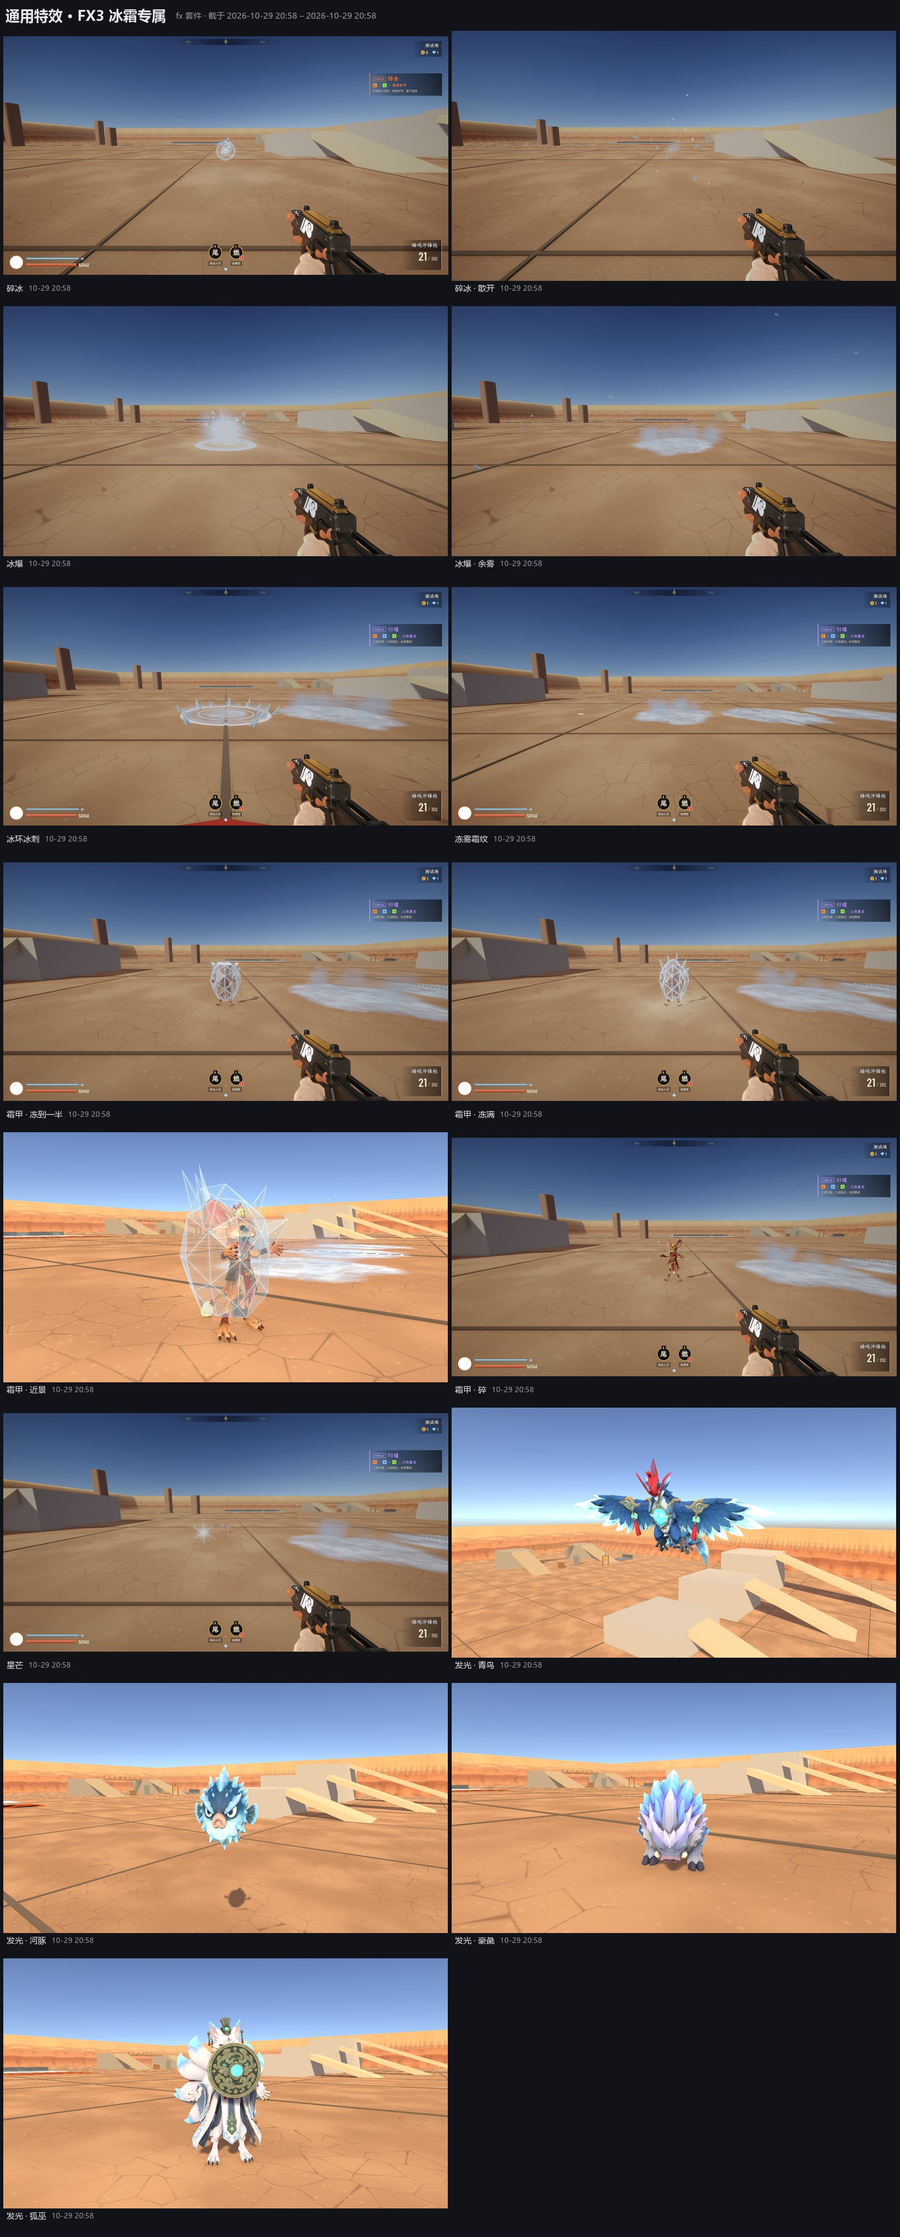
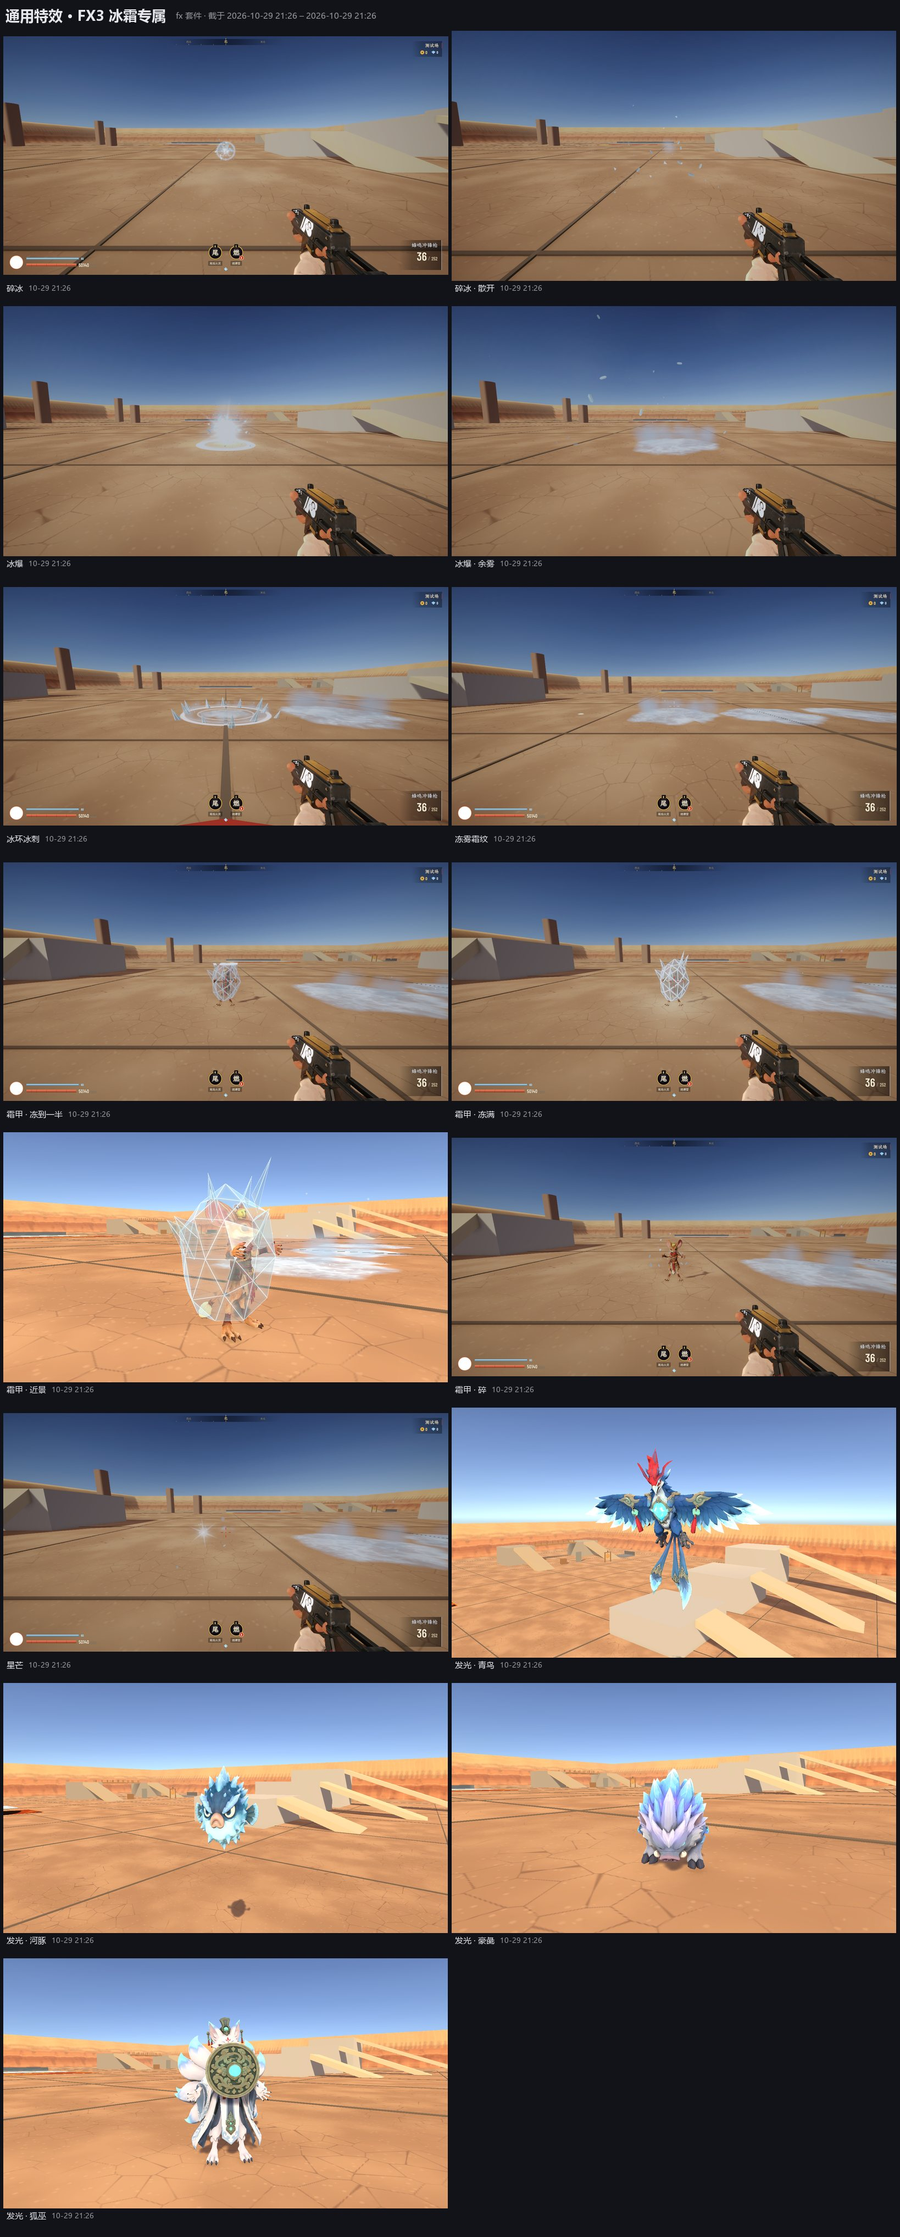
docs(unity): 战斗审阅图集按风格准则收口审查 —— 鲲鹏拼图按冰爆修复重拍；问题清单补 4 条（#13 鲲鹏化形赭黄火团已修；#14 FX3 冰爆白粉雾、#15 冰壳偏浅白、#16 鲲鹏倒下余韵整幅浅白，未修，已登记改法）；fx-frost / fx-inferno 用回归里的最新截图重拼

diff --git a/docs/art/review/unity-combat/index.html b/docs/art/review/unity-combat/index.html
@@ -16,7 +16,7 @@ figcaption b{color:var(--fg)}figcaption .lack{color:#f5a524}
 #lb img{display:block;margin:0 auto;max-width:none;width:min(1660px,100%)}#lb .bar{position:fixed;left:0;right:0;bottom:0;padding:8px 16px;
 background:#000c;color:var(--fg);font-size:14px}
 </style></head><body>
-<header><h1>Unity 战斗演出审阅图集</h1><div class='dim'>生成于 2026-10-29 21:03 · 每只怪 / 每个首领一张拼图：一行一个招式，四格依次是<b style='color:#f0b43c'>前摇</b>（预警最满的那一帧）、<b style='color:#f57832'>出手</b>、<b style='color:#eb4646'>命中</b>（没打中则为收招）、<b style='color:#5aa0f5'>第一人称</b>（前摇最后一帧的玩家视角）。第三人称旁观机位里的<b style='color:#5af2ff'>青色胶囊</b>是玩家站位。点图放大，← → 翻页，Esc 关闭。</div></header>
+<header><h1>Unity 战斗演出审阅图集</h1><div class='dim'>生成于 2026-10-29 22:17 · 每只怪 / 每个首领一张拼图：一行一个招式，四格依次是<b style='color:#f0b43c'>前摇</b>（预警最满的那一帧）、<b style='color:#f57832'>出手</b>、<b style='color:#eb4646'>命中</b>（没打中则为收招）、<b style='color:#5aa0f5'>第一人称</b>（前摇最后一帧的玩家视角）。第三人称旁观机位里的<b style='color:#5af2ff'>青色胶囊</b>是玩家站位。点图放大，← → 翻页，Esc 关闭。</div></header>
 <nav><a href='#fx-polish'>特效打磨</a><a href='#issues'>问题清单</a><a href='#intro'>首领登场演出</a><a href='#hanba'>首领招式 · 旱魃（1-4）</a><a href='#kunpeng'>首领招式 · 鲲鹏（2-4）</a><a href='#warlord'>首领招式 · 熔心魔将（3-3）</a><a href='#qilin'>首领招式 · 火麒麟（3-4）</a><a href='#desert'>普通怪物 · 第一章 · 沙海</a><a href='#frost'>普通怪物 · 第二章 · 冰原</a><a href='#inferno'>普通怪物 · 第三章 · 火狱</a><a href='#fx'>通用战斗特效</a></nav><main>
 <h2 id='fx-polish'>特效打磨（2026-10-29）</h2><p>四路特效打磨（A 射击核心、B 爆炸 / 元素 / 状态 / 护盾、C 首领与怪物专属 + 预警、D 环境氛围）和一轮风格审查都已完成，本图集是打磨之后用合并后的代码重拍的。特效按 fx-style.md 的准则做：形状先于细节、每个特效 2–3 个色阶、中尺度东方纹样、克制的光、第一人称读感优先；烟尘按章节换暖沙 / 冷白 / 紫褐。各路改前 / 改后对比：</p><p>准则：<a href='../../fx-style.md'>docs/art/fx-style.md</a> · 审查报告：<a href='../fx-polish/style-audit.md'>fx-polish/style-audit.md</a></p><table><tr><th>路</th><th>内容</th><th>改前 / 改后对比图</th></tr>
 <tr><td>A 射击核心</td><td class='dim'>枪口火焰、抛壳、曳光、弹孔 / 焦痕、命中层、暴击、碎刃刀光</td><td><a href='../fx-polish/A/blade.jpg'>blade</a> · <a href='../fx-polish/A/crit.jpg'>crit</a> · <a href='../fx-polish/A/hits.jpg'>hits</a> · <a href='../fx-polish/A/holes.jpg'>holes</a> · <a href='../fx-polish/A/muzzle-3p-1.jpg'>muzzle-3p-1</a> · <a href='../fx-polish/A/muzzle-3p-2.jpg'>muzzle-3p-2</a> · <a href='../fx-polish/A/muzzle-all-after.jpg'>muzzle-all-after</a> · <a href='../fx-polish/A/muzzle-fp-1.jpg'>muzzle-fp-1</a> · <a href='../fx-polish/A/muzzle-fp-2.jpg'>muzzle-fp-2</a> · <a href='../fx-polish/A/scorch.jpg'>scorch</a> · <a href='../fx-polish/A/shells.jpg'>shells</a> · <a href='../fx-polish/A/tracer.jpg'>tracer</a></td></tr>
@@ -28,13 +28,13 @@ background:#000c;color:var(--fg);font-size:14px}
 <h2 id='summary'>截图概况</h2><table><tr><th>分组</th><th>拼图</th><th>截图</th><th>截图时间</th></tr>
 <tr><td>首领登场</td><td>4</td><td>32</td><td>2026-10-29 21:00 / 2026-10-29 21:02</td></tr>
 <tr><td>首领 · 旱魃（1-4）</td><td>4</td><td>80</td><td>2026-10-29 20:15</td></tr>
-<tr><td>首领 · 鲲鹏（2-4）</td><td>1</td><td>39</td><td>2026-10-29 20:19</td></tr>
+<tr><td>首领 · 鲲鹏（2-4）</td><td>1</td><td>39</td><td>2026-10-29 22:11</td></tr>
 <tr><td>首领 · 熔心魔将（3-3）</td><td>1</td><td>59</td><td>2026-10-29 20:25</td></tr>
 <tr><td>首领 · 火麒麟（3-4）</td><td>3</td><td>59</td><td>2026-10-29 20:27</td></tr>
 <tr><td>第一章 · 沙海</td><td>7</td><td>100</td><td>2026-10-29 20:41</td></tr>
 <tr><td>第二章 · 冰原</td><td>11</td><td>178</td><td>2026-10-29 20:44</td></tr>
 <tr><td>第三章 · 火狱</td><td>11</td><td>168</td><td>2026-10-29 20:49</td></tr>
-<tr><td>通用特效</td><td>9</td><td>72</td><td>2026-10-29 20:58 / 2026-10-29 20:59</td></tr>
+<tr><td>通用特效</td><td>9</td><td>72</td><td>2026-10-29 20:58 / 2026-10-29 21:26</td></tr>
 </table>
 <h2 id='notes'>截图说明</h2><ul class='dim'><li>三章普通怪都在测试场（TestArena）截：沙地、红色刷怪台、悬浮的武器架是测试场的东西，不是本章地形（红色圆台不是预警，别和红 / 橙色预警混看）；首领在各自的真实关卡里截。</li><li>普通和精英同时刷在刷怪台上，冰鲸、玄冰巨蟹这类大体型的两只会互相穿插——是测试摆位，不是游戏问题。</li><li>第三章模型暂缓，3-3 / 3-4 场地里的方块和浅色板是白盒占位；场地柱子密，个别旁观机位被柱子挡住。</li><li>「命中」= 出手后玩家第一次挨的一下（4 点以上，跳伤不算）；几只怪同时出手时可能记到别的怪头上。没打中就拍收招；辅助招（施法、换位、护甲）第三格是出手后 0.7 s 的「效果」。</li><li>「第一人称」格：眼睛位置不动、视线临时转向出招者（拍完还原），看的是玩家正看着它时预警读不读得出来。</li><li>本轮（2026-10-29）在特效打磨四路 + 风格审查收口之后、用合并 ff7ad722 后的代码全部重拍：七组 gallery、boss-intro（测试场 + 四个首领关）、fx；各图标题里有截图时间。</li></ul>
 <h2 id='issues'>问题清单</h2><p class='dim'>截图时发现的明显问题。严重程度：高 = 影响读招 / 明显穿帮；中 = 看得出不对；低 = 打磨项。「状态」写的是修复进度和修法（已修的条目对应的拼图已重拍）。</p>
@@ -51,6 +51,10 @@ background:#000c;color:var(--fg);font-size:14px}
 <tr><td>10</td><td><span class='sev' style='background:#8b8d98'>低</span></td><td>特效</td><td>跳鼠刀兵 / 沙魇（第一章）</td><td>交叉斩 / 交叉爪击的刀光很淡很细，出手帧在沙地上几乎看不到 X 字刀光，近战出手缺少一下明确的视觉重音。</td><td style='color:#46a758'>已修：敌方刀光加宽 1.5 倍、垫暗月牙、刃口保持暖色、多留 25%（SlashArc hostile，跳鼠 / 沙魇 / 狌狌 / 魔将）；desert 回归通过、已重拍</td><td><a href='#desert-jerboa_blade'>desert-jerboa_blade</a> <a href='#desert-sand_wraith'>desert-sand_wraith</a></td></tr>
 <tr><td>11</td><td><span class='sev' style='background:#8b8d98'>低</span></td><td>特效</td><td>状态外观（通用）</td><td>五种状态主要靠整体染色区分（橙 / 紫 / 绿 / 黄 / 蓝），感电和减速在近景里几乎没有粒子（电弧、冰晶）；第一人称 15 m 外只能靠颜色分辨，减速和感电的蓝紫色容易混。</td><td style='color:#46a758'>已修：减速改冰白 + 冰晶星芒 + 细雪，和雷元素天蓝拉开；感电频闪拉开明暗、电弧更多更亮（StatusFx）；fx 回归通过、已重拍</td><td><a href='#fx-status'>fx-status</a></td></tr>
 <tr><td>12</td><td><span class='sev' style='background:#8b8d98'>低</span></td><td>演出</td><td>鲲鹏（2-4）</td><td>倒下演出偏短：被击杀后 1.5 s 鹏还在下坠，3.5 s 时场上已经什么都不剩（没有残骸 / 落羽 / 冰面余波），和旱魃、魔将、火麒麟的倒下演出相比收得太快。</td><td style='color:#46a758'>已修：倒下演出 3.2 → 4.4 s，鹏 55% 砸冰面（碎冰 + 冰环 + 震屏）后趴着抽两下、鲲没顶涌冰浪，炸开后落点留 6 s 冻雾 + 霜斑（KunPengBrain）；boss-kunpeng 回归通过、已重拍</td><td><a href='#kunpeng-boss_kunpeng'>kunpeng-boss_kunpeng</a></td></tr>
+<tr><td>13</td><td><span class='sev' style='background:#f5a524'>中</span></td><td>特效风格</td><td>鲲鹏（2-4）化形 / 冰属性爆发</td><td>收口审查（fx-style ③ 元素色）：鲲 → 鹏化形那一下是一大团赭黄泥色的卡通火团。原因是 B 路的卡通爆炸只有火的色阶，传冰蓝进去，火团就混成了泥色。鲲 · 吐冰的冰块落地、MatriarchNova 也是同样的调用。</td><td style='color:#46a758'>已修：这三处改走 FX3 冷的冰爆 Fx.FrostNova（KunPengBrain / BossHazards 的 LobKind.Ice / MatriarchMoves），其余爆炸不变。boss-kunpeng、gallery-kunpeng 回归通过，已重拍（72f14d4e）</td><td><a href='#kunpeng-boss_kunpeng'>kunpeng-boss_kunpeng</a></td></tr>
+<tr><td>14</td><td><span class='sev' style='background:#8b8d98'>低</span></td><td>特效风格</td><td>FX3 冰爆 / 冰河豚自爆（第二章）</td><td>收口审查（fx-style ②④）：FX3 冰爆是一团柔边的白粉雾，再加白色冷环，冰河豚鼓气自爆、fx 套件的「冰爆」都是这样。亮沙上看是一大片白，读不出准则里「块面清楚的冰晶多面体」那种大形。FX3 写在风格准则之前，A / B / C / D 四路和风格审查都没有覆盖它。</td><td style='color:#8b8d98'>未修：属于 FX3 整套的风格整改，不在收口范围内，这里只登记。改法建议：白雾换成冰蓝两段的卡通团块，冷环加粗，主形改成几块大冰晶</td><td><a href='#frost-ice_puffer'>frost-ice_puffer</a> <a href='#fx-frost'>fx-frost</a></td></tr>
+<tr><td>15</td><td><span class='sev' style='background:#8b8d98'>低</span></td><td>特效风格</td><td>状态 · 减速（冰壳，通用）</td><td>收口审查（fx-style ②⑦）：在没有加密的机器上补跑了 fx-style（冰壳 UV2 已经生效，冰晶不再被岛缝切直边）。但三种地面上冰壳整体还是偏浅白，大切面的明暗分得不明显，整只怪读成一层光滑的浅冰蓝。</td><td style='color:#8b8d98'>未修：风格审查报告里登记过的残留小偏差（亮面朝主光时偏浅），这次确认还在。建议把暗面的冰蓝压深一档、晶格放大，让切面读得出来</td><td><a href='#fx-status'>fx-status</a></td></tr>
+<tr><td>16</td><td><span class='sev' style='background:#8b8d98'>低</span></td><td>测试 / 截图</td><td>鲲鹏（2-4）倒下 · 余韵</td><td>图集「余韵」这一格（倒下后 5.2 s）几乎整幅都是浅蓝白，看不到场景。旁观机位跟的是鲲沉下去的位置，镜头很可能落到了冰窟水面以下，也可能是被冻雾整个罩住了。</td><td style='color:#8b8d98'>未修：先查 GalleryRecorder 的旁观机位，对象沉到水下时机位该抬到水面以上；如果是冻雾糊屏，就按 fx-style ②「雪雾偏冷白、不糊屏」收薄</td><td><a href='#kunpeng-boss_kunpeng'>kunpeng-boss_kunpeng</a></td></tr>
 </table>
 <p class='dim'>招式表里有、这一轮没截到的招式（剧本没逼出来或被打断）：第二章 · 冰原 九尾狐巫 · 狐火；第二章 · 冰原 三青鸟 · 歇脚；第三章 · 火狱 炮仗傀儡 · 哑炸倒地；第三章 · 火狱 熔铜匠 · 裂锅；第三章 · 火狱 马面狱卒 · 重拳；第三章 · 火狱 变脸傩巫 · 碎面；第三章 · 火狱 火鼍 · 陆上扑咬</p>
 <h2 id='intro'>一、首领登场演出</h2><div class='grid'>
@@ -66,7 +70,7 @@ background:#000c;color:var(--fg);font-size:14px}
 <figure id='hanba-scorpion_archer'><img loading='lazy' src='hanba-scorpion_archer.jpg' alt='蝎尾弩卫'><figcaption><b>蝎尾弩卫</b> <span class='dim'>scorpion_archer · 4 张 · 截于 2026-10-29 20:15</span></figcaption></figure>
 </div>
 <h2 id='kunpeng'>二、首领招式 · 鲲鹏（2-4）</h2><div class='grid'>
-<figure id='kunpeng-boss_kunpeng'><img loading='lazy' src='kunpeng-boss_kunpeng.jpg' alt='鲲鹏'><figcaption><b>鲲鹏</b> <span class='dim'>boss_kunpeng · 39 张 · 截于 2026-10-29 20:19</span></figcaption></figure>
+<figure id='kunpeng-boss_kunpeng'><img loading='lazy' src='kunpeng-boss_kunpeng.jpg' alt='鲲鹏'><figcaption><b>鲲鹏</b> <span class='dim'>boss_kunpeng · 39 张 · 截于 2026-10-29 22:11</span></figcaption></figure>
 </div>
 <h2 id='warlord'>二、首领招式 · 熔心魔将（3-3）</h2><div class='grid'>
 <figure id='warlord-boss_warlord'><img loading='lazy' src='warlord-boss_warlord.jpg' alt='熔心魔将'><figcaption><b>熔心魔将</b> <span class='dim'>boss_warlord · 59 张 · 截于 2026-10-29 20:25</span></figcaption></figure>
@@ -119,8 +123,8 @@ background:#000c;color:var(--fg);font-size:14px}
 <figure id='fx-status'><img loading='lazy' src='fx-status.jpg' alt='状态外观'><figcaption><b>状态外观</b> <span class='dim'>status · 6 张 · 截于 2026-10-29 20:58</span></figcaption></figure>
 <figure id='fx-spawn'><img loading='lazy' src='fx-spawn.jpg' alt='出生法阵 + 显形 / 死亡迸散 + 溶解'><figcaption><b>出生法阵 + 显形 / 死亡迸散 + 溶解</b> <span class='dim'>spawn · 4 张 · 截于 2026-10-29 20:58</span></figcaption></figure>
 <figure id='fx-reaction'><img loading='lazy' src='fx-reaction.jpg' alt='元素反应（熔池 / 归墟）'><figcaption><b>元素反应（熔池 / 归墟）</b> <span class='dim'>reaction · 5 张 · 截于 2026-10-29 20:58</span></figcaption></figure>
-<figure id='fx-frost'><img loading='lazy' src='fx-frost.jpg' alt='FX3 冰霜专属'><figcaption><b>FX3 冰霜专属</b> <span class='dim'>frost · 15 张 · 截于 2026-10-29 20:58</span></figcaption></figure>
-<figure id='fx-inferno'><img loading='lazy' src='fx-inferno.jpg' alt='FX4 火狱专属'><figcaption><b>FX4 火狱专属</b> <span class='dim'>inferno · 17 张 · 截于 2026-10-29 20:59</span></figcaption></figure>
+<figure id='fx-frost'><img loading='lazy' src='fx-frost.jpg' alt='FX3 冰霜专属'><figcaption><b>FX3 冰霜专属</b> <span class='dim'>frost · 15 张 · 截于 2026-10-29 21:26</span></figcaption></figure>
+<figure id='fx-inferno'><img loading='lazy' src='fx-inferno.jpg' alt='FX4 火狱专属'><figcaption><b>FX4 火狱专属</b> <span class='dim'>inferno · 17 张 · 截于 2026-10-29 21:26</span></figcaption></figure>
 </div>
 </main><div id="lb"><img><div class="bar"></div></div><script>
 const imgs=[...document.querySelectorAll('figure img')],lb=document.getElementById('lb'),big=lb.querySelector('img'),bar=lb.querySelector('.bar');let k=-1;

diff --git a/docs/art/review/unity-combat/README.md b/docs/art/review/unity-combat/README.md
@@ -1,6 +1,6 @@
 # Unity 战斗演出审阅图集
 
-生成于 2026-10-29 21:03。浏览器打开同目录的 [index.html](index.html) 体验更好（点图放大、← → 翻页）。
+生成于 2026-10-29 22:17。浏览器打开同目录的 [index.html](index.html) 体验更好（点图放大、← → 翻页）。
 
 每只怪 / 每个首领一张拼图：一行一个招式，四格依次是 **前摇**（预警最满的那一帧）、**出手**、**命中**（没打中则为收招）、**第一人称**（前摇最后一帧的玩家视角）。第三人称旁观机位里的青色胶囊是玩家站位。
 
@@ -45,6 +45,10 @@
 | 10 | 低 | 特效 | 跳鼠刀兵 / 沙魇（第一章） | 交叉斩 / 交叉爪击的刀光很淡很细，出手帧在沙地上几乎看不到 X 字刀光，近战出手缺少一下明确的视觉重音。 | **已修：敌方刀光加宽 1.5 倍、垫暗月牙、刃口保持暖色、多留 25%（SlashArc hostile，跳鼠 / 沙魇 / 狌狌 / 魔将）；desert 回归通过、已重拍** | [desert-jerboa_blade](desert-jerboa_blade.jpg) [desert-sand_wraith](desert-sand_wraith.jpg) |
 | 11 | 低 | 特效 | 状态外观（通用） | 五种状态主要靠整体染色区分（橙 / 紫 / 绿 / 黄 / 蓝），感电和减速在近景里几乎没有粒子（电弧、冰晶）；第一人称 15 m 外只能靠颜色分辨，减速和感电的蓝紫色容易混。 | **已修：减速改冰白 + 冰晶星芒 + 细雪，和雷元素天蓝拉开；感电频闪拉开明暗、电弧更多更亮（StatusFx）；fx 回归通过、已重拍** | [fx-status](fx-status.jpg) |
 | 12 | 低 | 演出 | 鲲鹏（2-4） | 倒下演出偏短：被击杀后 1.5 s 鹏还在下坠，3.5 s 时场上已经什么都不剩（没有残骸 / 落羽 / 冰面余波），和旱魃、魔将、火麒麟的倒下演出相比收得太快。 | **已修：倒下演出 3.2 → 4.4 s，鹏 55% 砸冰面（碎冰 + 冰环 + 震屏）后趴着抽两下、鲲没顶涌冰浪，炸开后落点留 6 s 冻雾 + 霜斑（KunPengBrain）；boss-kunpeng 回归通过、已重拍** | [kunpeng-boss_kunpeng](kunpeng-boss_kunpeng.jpg) |
+| 13 | 中 | 特效风格 | 鲲鹏（2-4）化形 / 冰属性爆发 | 收口审查（fx-style ③ 元素色）：鲲 → 鹏化形那一下是一大团赭黄泥色的卡通火团。原因是 B 路的卡通爆炸只有火的色阶，传冰蓝进去，火团就混成了泥色。鲲 · 吐冰的冰块落地、MatriarchNova 也是同样的调用。 | **已修：这三处改走 FX3 冷的冰爆 Fx.FrostNova（KunPengBrain / BossHazards 的 LobKind.Ice / MatriarchMoves），其余爆炸不变。boss-kunpeng、gallery-kunpeng 回归通过，已重拍（72f14d4e）** | [kunpeng-boss_kunpeng](kunpeng-boss_kunpeng.jpg) |
+| 14 | 低 | 特效风格 | FX3 冰爆 / 冰河豚自爆（第二章） | 收口审查（fx-style ②④）：FX3 冰爆是一团柔边的白粉雾，再加白色冷环，冰河豚鼓气自爆、fx 套件的「冰爆」都是这样。亮沙上看是一大片白，读不出准则里「块面清楚的冰晶多面体」那种大形。FX3 写在风格准则之前，A / B / C / D 四路和风格审查都没有覆盖它。 | 未修：属于 FX3 整套的风格整改，不在收口范围内，这里只登记。改法建议：白雾换成冰蓝两段的卡通团块，冷环加粗，主形改成几块大冰晶 | [frost-ice_puffer](frost-ice_puffer.jpg) [fx-frost](fx-frost.jpg) |
+| 15 | 低 | 特效风格 | 状态 · 减速（冰壳，通用） | 收口审查（fx-style ②⑦）：在没有加密的机器上补跑了 fx-style（冰壳 UV2 已经生效，冰晶不再被岛缝切直边）。但三种地面上冰壳整体还是偏浅白，大切面的明暗分得不明显，整只怪读成一层光滑的浅冰蓝。 | 未修：风格审查报告里登记过的残留小偏差（亮面朝主光时偏浅），这次确认还在。建议把暗面的冰蓝压深一档、晶格放大，让切面读得出来 | [fx-status](fx-status.jpg) |
+| 16 | 低 | 测试 / 截图 | 鲲鹏（2-4）倒下 · 余韵 | 图集「余韵」这一格（倒下后 5.2 s）几乎整幅都是浅蓝白，看不到场景。旁观机位跟的是鲲沉下去的位置，镜头很可能落到了冰窟水面以下，也可能是被冻雾整个罩住了。 | 未修：先查 GalleryRecorder 的旁观机位，对象沉到水下时机位该抬到水面以上；如果是冻雾糊屏，就按 fx-style ②「雪雾偏冷白、不糊屏」收薄 | [kunpeng-boss_kunpeng](kunpeng-boss_kunpeng.jpg) |
 
 招式表里有、这一轮没截到的招式：第二章 · 冰原 九尾狐巫 · 狐火；第二章 · 冰原 三青鸟 · 歇脚；第三章 · 火狱 炮仗傀儡 · 哑炸倒地；第三章 · 火狱 熔铜匠 · 裂锅；第三章 · 火狱 马面狱卒 · 重拳；第三章 · 火狱 变脸傩巫 · 碎面；第三章 · 火狱 火鼍 · 陆上扑咬
 
@@ -88,7 +92,7 @@
 
 ## 二、首领招式 · 鲲鹏（2-4）
 
-**鲲鹏** `boss_kunpeng` · 39 张 · 截于 2026-10-29 20:19
+**鲲鹏** `boss_kunpeng` · 39 张 · 截于 2026-10-29 22:11
 
 ![鲲鹏](kunpeng-boss_kunpeng.jpg)
 
@@ -270,10 +274,10 @@
 
 ![元素反应（熔池 / 归墟）](fx-reaction.jpg)
 
-**FX3 冰霜专属** `frost` · 15 张 · 截于 2026-10-29 20:58
+**FX3 冰霜专属** `frost` · 15 张 · 截于 2026-10-29 21:26
 
 ![FX3 冰霜专属](fx-frost.jpg)
 
-**FX4 火狱专属** `inferno` · 17 张 · 截于 2026-10-29 20:59
+**FX4 火狱专属** `inferno` · 17 张 · 截于 2026-10-29 21:26
 
 ![FX4 火狱专属](fx-inferno.jpg)
